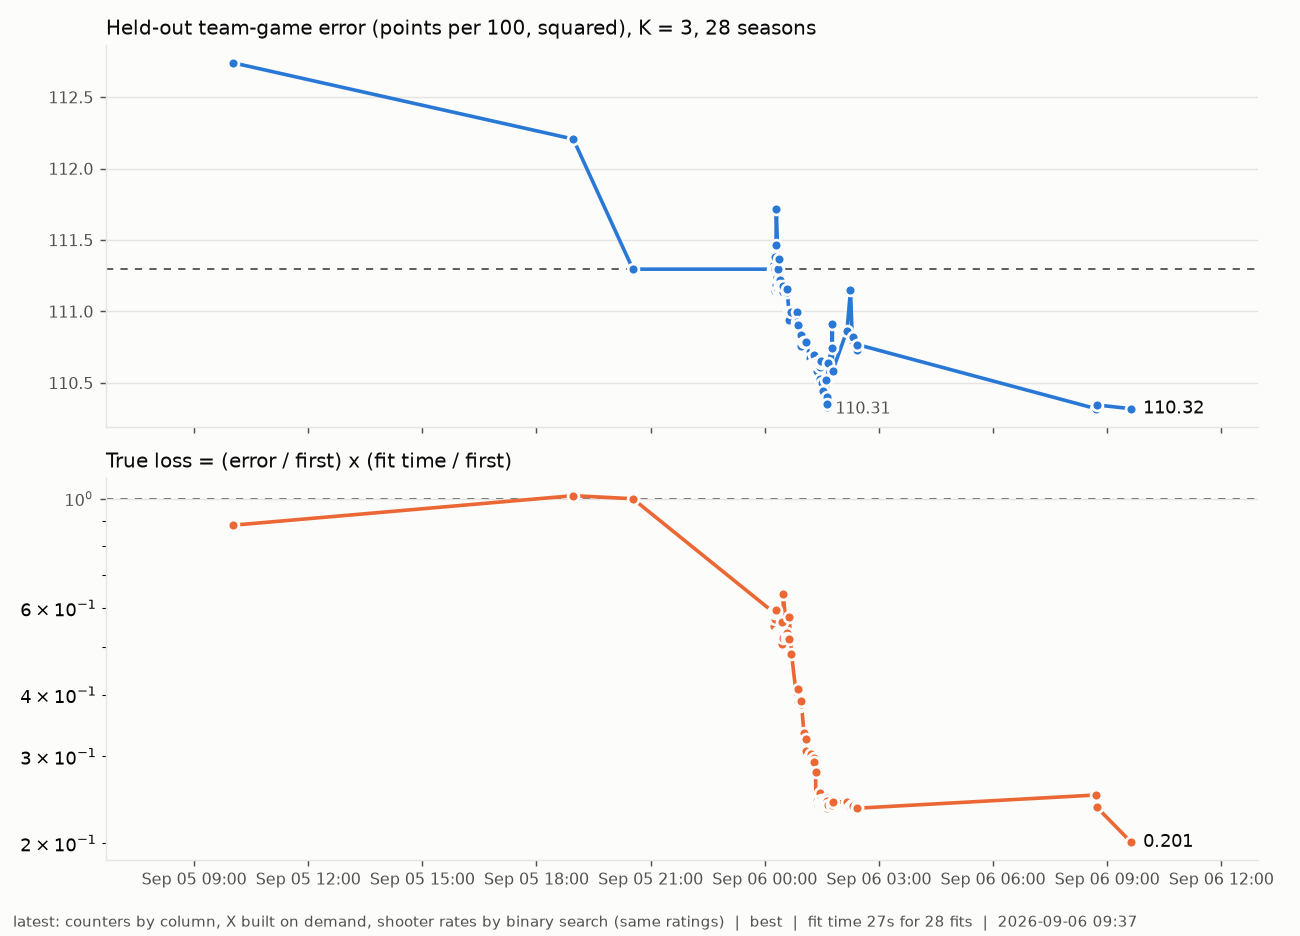
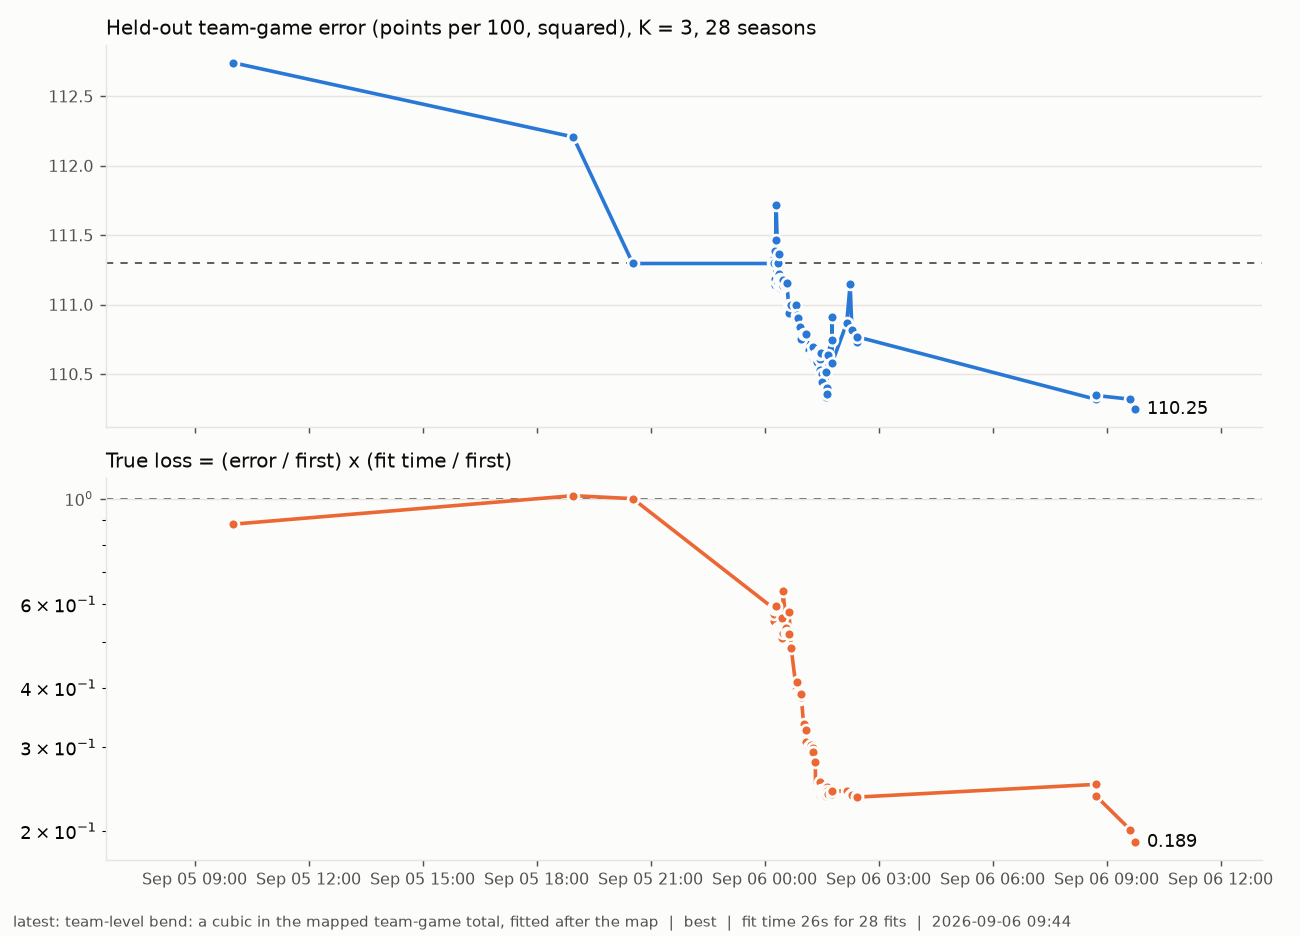
A cubic in the team-game total after the map: 110.246 at K=3 (true loss 0.189)
The map is per player, so the criterion's team-game prediction is linear in it.  A bend in the TOTAL is not
reachable that way and is worth 0.07-0.08 per 100 on every board tried (z -3.0 on `best`, -3.3 on
`ship_blend07`, -2.8 on section 20's board), one parameter, no fit time.  Richer shapes -- a quintic, four
knots a side, a saturating tanh -- add nothing, bending the two sides apart is worse, and the multiplicative
offense-defense term is worth nothing: it is the total regressing, not a matchup effect.

`calmap.TeamBend` (`none`, `cubic`, `quad`, `tanh`), `fit_bend`, `bent_prediction`, `parse_maps`: a map name
may now carry `|<bend>`, and 53/54 take it.  Prediction-time only, like the age term -- a rating carries no
team.  FINDINGS 21.20.

diff --git a/src/eracoef/calmap.py b/src/eracoef/calmap.py
@@ -24,7 +24,7 @@ from __future__ import annotations
 
 import os
 import time
-from dataclasses import dataclass
+from dataclasses import dataclass, replace
 from pathlib import Path
 
 import numpy as np
@@ -136,6 +136,7 @@ class SeasonFrame:
     L: np.ndarray
     G: sp.csr_matrix
     wg: np.ndarray
+    key: np.ndarray | None = None         # team-game index of each row (the rows G aggregates)
     extra: pd.DataFrame | None = None     # per player in `ids` order: covariates AT H (age), for the Age term
     ctx: object = None                    # for covariates that depend on the training block (moved, per K)
 
@@ -174,7 +175,7 @@ class SeasonFrame:
         G = sp.csr_matrix((poss / wg[key], (key, np.arange(len(key)))), shape=(n_tg, len(key)))
         return cls(h=h, wd=wd, Zo=wd.X[:, :m].tocsr(), Zd=wd.X[:, m:2 * m].tocsr(),
                    ids=wd.spec.ps_table["player_id"].to_numpy(), y=np.asarray(wd.y, dtype=float), w=w, poss=poss,
-                   A=A, L=L, G=G, wg=wg, extra=extra, ctx=ctx)
+                   A=A, L=L, G=G, wg=wg, key=key, extra=extra, ctx=ctx)
 
     def profiled(self, C: np.ndarray) -> np.ndarray:
         """Columns with the season's level profiled out (what the criterion's refit does to any contribution)."""
@@ -521,6 +522,71 @@ class SideMap:
         return np.concatenate([self.fam.identity(), np.zeros(self.expo.n_params)])
 
 
+class TeamBend:
+    """A bend in the TEAM's summed rating, fitted after the per-player map.
+
+    The map is a function of one player's rating, so the criterion's prediction for a team-game is the
+    possession-weighted SUM of the five on the floor: whatever the map does, the total is linear in it.  A
+    bend in that total -- extreme team-games pulled in, the middle stretched -- is not reachable per player,
+    and out of season it is worth 0.07-0.08 per 100 on every board tried (FINDINGS 21.20).  `basis` is in the
+    mapped total u, standardised by its own weighted RMS, and gamma = (1, 0, ...) is the map left alone.
+
+    It is a PREDICTION-TIME term, like the age term: a rating carries no team, so it cannot ship in the board.
+    """
+    name, n_params = "none", 0
+
+    def basis(self, u: np.ndarray, s: float) -> np.ndarray:
+        return np.asarray(u, dtype=float)[:, None]
+
+
+class CubicBend(TeamBend):
+    """g(u) = a u + b u^3 / s^2."""
+    name, n_params = "cubic", 2
+
+    def basis(self, u, s):
+        u = np.asarray(u, dtype=float)
+        return np.column_stack([u, u ** 3 / s ** 2])
+
+
+class QuadBend(TeamBend):
+    """g(u) = a u + b u|u| / s: the same compression with a sign asymmetry allowed."""
+    name, n_params = "quad", 2
+
+    def basis(self, u, s):
+        u = np.asarray(u, dtype=float)
+        return np.column_stack([u, u * np.abs(u) / s])
+
+
+class TanhBend(TeamBend):
+    """g(u) = a u + b (tanh(u / s) - u / s) s: a saturating compression, no runaway cubic tail."""
+    name, n_params = "tanh", 2
+
+    def basis(self, u, s):
+        u = np.asarray(u, dtype=float)
+        return np.column_stack([u, (np.tanh(u / s) - u / s) * s])
+
+
+BENDS = {b.name: b for b in (TeamBend(), CubicBend(), QuadBend(), TanhBend())}
+
+
+def parse_maps(fam: str):
+    """"<family_o>[:<family_d>][|<bend>]" -> (map_o, map_d, bend).  The name a run logs is the same string
+    with ":" and "|" replaced by "_"."""
+    rest, _, bend = fam.partition("|")
+    fo, fd = (rest.split(":") + [None])[:2]
+    return SideMap.parse(fo), SideMap.parse(fd or fo), BENDS[bend or "none"]
+
+
+def fit_bend(D: "Design", th: np.ndarray, bend: TeamBend, exclude_h=None) -> tuple[np.ndarray, float]:
+    """The bend's parameters on every season but `exclude_h`, given the map's own parameters `th`."""
+    sel = np.ones(len(D.h), dtype=bool) if exclude_h is None else D.h != exclude_h
+    u, y, w = D.X[sel] @ th, D.y[sel], D.w[sel]
+    s = float(np.sqrt(np.average(u ** 2, weights=w))) or 1.0
+    B = bend.basis(u, s)
+    BtW = (B * w[:, None]).T
+    return np.linalg.solve(BtW @ B, BtW @ y), s
+
+
 # ---------------------------------------------------------------------------------------- 4. fitting and scoring
 def _side_scale(dump: pd.DataFrame, system: str, k: int, side: str, min_poss: float = 1000.0) -> float:
     d = dump[(dump.system == system) & (dump.k == k) & (dump.poss >= min_poss)]
@@ -599,28 +665,50 @@ def mapped_ratings(rat: Ratings, theta, map_o: SideMap, map_d: SideMap, scale_o:
     return Ratings(d, fill_o=fo, fill_d=fd)
 
 
-def _param_row(name, system, k, h, map_o, map_d, D, th) -> dict:
+def _param_row(name, system, k, h, map_o, map_d, D, th, bend=None, gamma=None, s_u=np.nan) -> dict:
     p = map_o.n_params
-    return dict(system=name, base=system, k=k, held_out=h, map_o=map_o.name, map_d=map_d.name,
-                scale_o=D.scale_o, scale_d=D.scale_d,
-                **{f"o{j}": float(v) for j, v in enumerate(th[:p])}, **{f"d{j}": float(v) for j, v in enumerate(th[p:])})
+    row = dict(system=name, base=system, k=k, held_out=h, map_o=map_o.name, map_d=map_d.name,
+               scale_o=D.scale_o, scale_d=D.scale_d,
+               **{f"o{j}": float(v) for j, v in enumerate(th[:p])}, **{f"d{j}": float(v) for j, v in enumerate(th[p:])})
+    if bend is not None and bend.n_params:
+        row.update(bend=bend.name, scale_u=float(s_u), **{f"g{j}": float(v) for j, v in enumerate(np.atleast_1d(gamma))})
+    return row
+
+
+def bent_prediction(p, f: SeasonFrame, bend: TeamBend, gamma, s_u: float, level: str = "home"):
+    """`predict_season`'s prediction with the team-game total bent: each row's contribution takes its own
+    team-game's g(u) - u, so the team-game total is exactly g(u) and the season's level is refit around it."""
+    from .holdout import _wls
+    c = p.c_off + p.c_def
+    u = f.game(f.profiled(c))
+    delta = bend.basis(u, s_u) @ np.asarray(gamma, dtype=float) - u
+    c2 = c + delta[f.key]
+    pred = f.A @ _wls(f.A, f.y - c2, f.w) + c2
+    return replace(p, pred=pred, c_off=p.c_off + delta[f.key], c_def=p.c_def)
 
 
 def evaluate(dump: pd.DataFrame, frames: dict, system: str, k: int, map_o: SideMap, map_d: SideMap, name: str,
-             ridge: float = 0.0, lam: float = 0.0, level: str = "home", min_poss: float = 1000.0):
+             ridge: float = 0.0, lam: float = 0.0, level: str = "home", min_poss: float = 1000.0,
+             bend: TeamBend | None = None):
     """Leave-one-season-out: fit the map on the other seasons' team-game residuals, apply it to H, score H
     with the criterion's own scorer.  Returns (result rows in RESULT_COLUMNS, the per-season parameters,
-    held_out = -1 for the all-seasons fit)."""
+    held_out = -1 for the all-seasons fit).  `bend`: a TeamBend fitted on the same other seasons, after the
+    map, on the team-game total."""
     D = build_design(dump, frames, system, k, map_o, map_d, min_poss)
     rows, params = [], []
     for h, f in frames.items():
         th = fit_theta(D, exclude_h=h, ridge=ridge, map_o=map_o, map_d=map_d)
         rat = mapped_ratings(ratings_for(dump, system, k, h), th, map_o, map_d, D.scale_o, D.scale_d, extra=f.covariates(k))
         p = predict_season(rat, f.wd, level=level)
+        gamma, s_u = (None, np.nan)
+        if bend is not None and bend.n_params:
+            gamma, s_u = fit_bend(D, th, bend, exclude_h=h)
+            p = bent_prediction(p, f, bend, gamma, s_u, level=level)
         rows.append(dict(held_out=h, k=k, train="", system=name, lam=lam, split="all", group="all", **score(p), seconds=0.0))
-        params.append(_param_row(name, system, k, h, map_o, map_d, D, th))
+        params.append(_param_row(name, system, k, h, map_o, map_d, D, th, bend, gamma, s_u))
     th_all = fit_theta(D, exclude_h=None, ridge=ridge, map_o=map_o, map_d=map_d)
-    params.append(_param_row(name, system, k, -1, map_o, map_d, D, th_all))
+    g_all, s_all = fit_bend(D, th_all, bend) if (bend is not None and bend.n_params) else (None, np.nan)
+    params.append(_param_row(name, system, k, -1, map_o, map_d, D, th_all, bend, g_all, s_all))
     return pd.DataFrame(rows)[RESULT_COLUMNS], pd.DataFrame(params)
 
 

diff --git a/scripts/54_track.py b/scripts/54_track.py
@@ -46,7 +46,7 @@ def measure(system: str, k: int, workers: int = 4, maps=("linear+sat",)) -> dict
     """Dump the system's ratings once per held-out season (timed), fit the calibration map leave-one-season-out
     on the dump, score with the criterion's scorer.  Loss = the MAPPED system's pooled team-game error; time = the
     dump's fit seconds summed over the held-out seasons."""
-    from eracoef.calmap import SideMap, dump_ratings, evaluate, load_frames, unmapped_rows
+    from eracoef.calmap import dump_ratings, evaluate, load_frames, parse_maps, unmapped_rows
     from eracoef.holdout import Context
     ho = Holdout.from_config(cfg, ks=[k])
     t0 = time.time()
@@ -57,15 +57,16 @@ def measure(system: str, k: int, workers: int = 4, maps=("linear+sat",)) -> dict
     frames = load_frames(ctx, ho.seasons(), level=ho.level, verbose=False)
     res, params = [unmapped_rows(R, frames, system, k)], []
     for fam in maps:
-        fo, fd = (fam.split(":") + [None])[:2]
-        r, p = evaluate(R, frames, system, k, SideMap.parse(fo), SideMap.parse(fd or fo), f"{system}_{fam.replace(':', '_')}")
+        map_o, map_d, bend = parse_maps(fam)
+        tag = fam.replace(":", "_").replace("|", "_")
+        r, p = evaluate(R, frames, system, k, map_o, map_d, f"{system}_{tag}", bend=bend)
         res.append(r)
         params.append(p)
     res = pd.concat(res, ignore_index=True)
     res.to_parquet(OUT / f"holdout_track_{system}.parquet", index=False)
     pd.concat(params, ignore_index=True).to_parquet(OUT / f"calmap_track_{system}.parquet", index=False)
     P = pooled(res).set_index("system")
-    mapped = P.loc[f"{system}_{maps[0].replace(':', '_')}"]
+    mapped = P.loc[f"{system}_{maps[0].replace(':', '_').replace('|', '_')}"]
     return dict(game=float(mapped.game), game_unmapped=float(P.loc[system].game), stint=float(mapped.mse),
                 scale_off=float(mapped.scale_off), scale_def=float(mapped.scale_def),
                 seconds=secs, wall=float(wall), seasons=int(res.held_out.nunique()))

diff --git a/scripts/53_calmap.py b/scripts/53_calmap.py
@@ -18,7 +18,7 @@ import numpy as np
 import pandas as pd
 
 sys.path.insert(0, str(Path(__file__).resolve().parents[1] / "src"))
-from eracoef.calmap import SideMap, dump_ratings, evaluate, load_frames, unmapped_rows  # noqa: E402
+from eracoef.calmap import SideMap, dump_ratings, evaluate, load_frames, parse_maps, unmapped_rows  # noqa: E402
 from eracoef.config import load_config  # noqa: E402
 from eracoef.holdout import Context, Holdout, paired, pooled  # noqa: E402
 
@@ -58,10 +58,9 @@ def main():
         for k in ks:
             res.append(unmapped_rows(dump, frames, system, k))
             for fam in fams:
-                fo, fd = (fam.split(":") + [None])[:2]
-                map_o, map_d = SideMap.parse(fo), SideMap.parse(fd or fo)
-                name = f"{system}_{fam.replace(':', '_')}"
-                r, p = evaluate(dump, frames, system, k, map_o, map_d, name, ridge=ridge)
+                map_o, map_d, bend = parse_maps(fam)
+                name = f"{system}_{fam.replace(':', '_').replace('|', '_')}"
+                r, p = evaluate(dump, frames, system, k, map_o, map_d, name, ridge=ridge, bend=bend)
                 res.append(r)
                 params.append(p)
                 print(f"  {name} K={k} done ({time.time() - t0:.0f}s)", flush=True)

diff --git a/FINDINGS.md b/FINDINGS.md
@@ -2036,3 +2036,33 @@ Two more blends against the floors: 0.3 APM on DEFENSE beside the 0.7 offense (`
 and fails the defensive agreement (0.742); 0.85 APM on offense (`ship_blend085`) scores 110.768 and passes
 (bigness gap -0.271, defense 0.7665) -- 0.03 better than the 0.7 blend for 0.03 less margin on the bigness
 floor, not worth the churn.  The 0.7 blend stays shipped.
+
+### 20. The team's total wants a bend the per-player map cannot make
+
+The calibration map is a function of ONE player's rating, so the criterion's team-game prediction is the
+possession-weighted sum of the five on the floor and is linear in whatever the map did.  Fit the map as usual,
+leave-one-season-out, then a second stage on the mapped team-game total u (`calmap.TeamBend`, fitted on the
+same 27 seasons, applied to the 28th):
+
+| shape | `best` | `ship_blend07` | `mspi1` (section 20's board) |
+|---|---|---|---|
+| linear (the map as it is) | 110.3185 | 110.8022 | 111.2955 |
+| **a u + b u^3 / s^2** | **110.2464 (z -3.0, 20/28)** | **110.7216 (z -3.3, 21/28)** | **111.2113 (z -2.8, 21/28)** |
+| a u + b u abs(u) / s | 110.2482 | 110.7200 | |
+| a u + b (tanh(u/s) - u/s) s | 110.2554 | 110.7265 | 111.2135 |
+| + a quintic, or four knots either side | 110.2468 / 110.2487 | | |
+| the two sides bent apart | 110.3269 | 110.8056 | 111.2973 |
+| offense x defense (the multiplicative matchup) | 110.3209 | 110.8051 | 111.2954 |
+
+**One parameter, 0.07-0.08 per 100 on every board tried, and nothing beyond it.**  The shape is odd and
+symmetric: gamma = (1.087, -0.029) stretches the middle by 9% and pulls a 3-sd team-game in by 18%.  A cubic in
+each side separately is WORSE, and the multiplicative offense-defense term (a great offense meeting a bad
+defense) is worth nothing -- so this is not a matchup effect, it is the total regressing: the five ratings of a
+team-game come from one training block and their errors are correlated, so their sum needs more shrinking than
+each rating does.
+
+It is a PREDICTION-TIME term, like the age term: a rating carries no team, so the board cannot ship it.  In
+`calmap` it is the `|<bend>` suffix of a map name (`linear+log2&age2&xlog&prior|cubic`); the fitted row of
+each season's parameters carries `bend`, `scale_u` and `g0`/`g1`.  `bent_prediction` gives every row of a
+team-game the same g(u) - u, so the team-game total is exactly g(u) and the season's level is refit around it.
+
